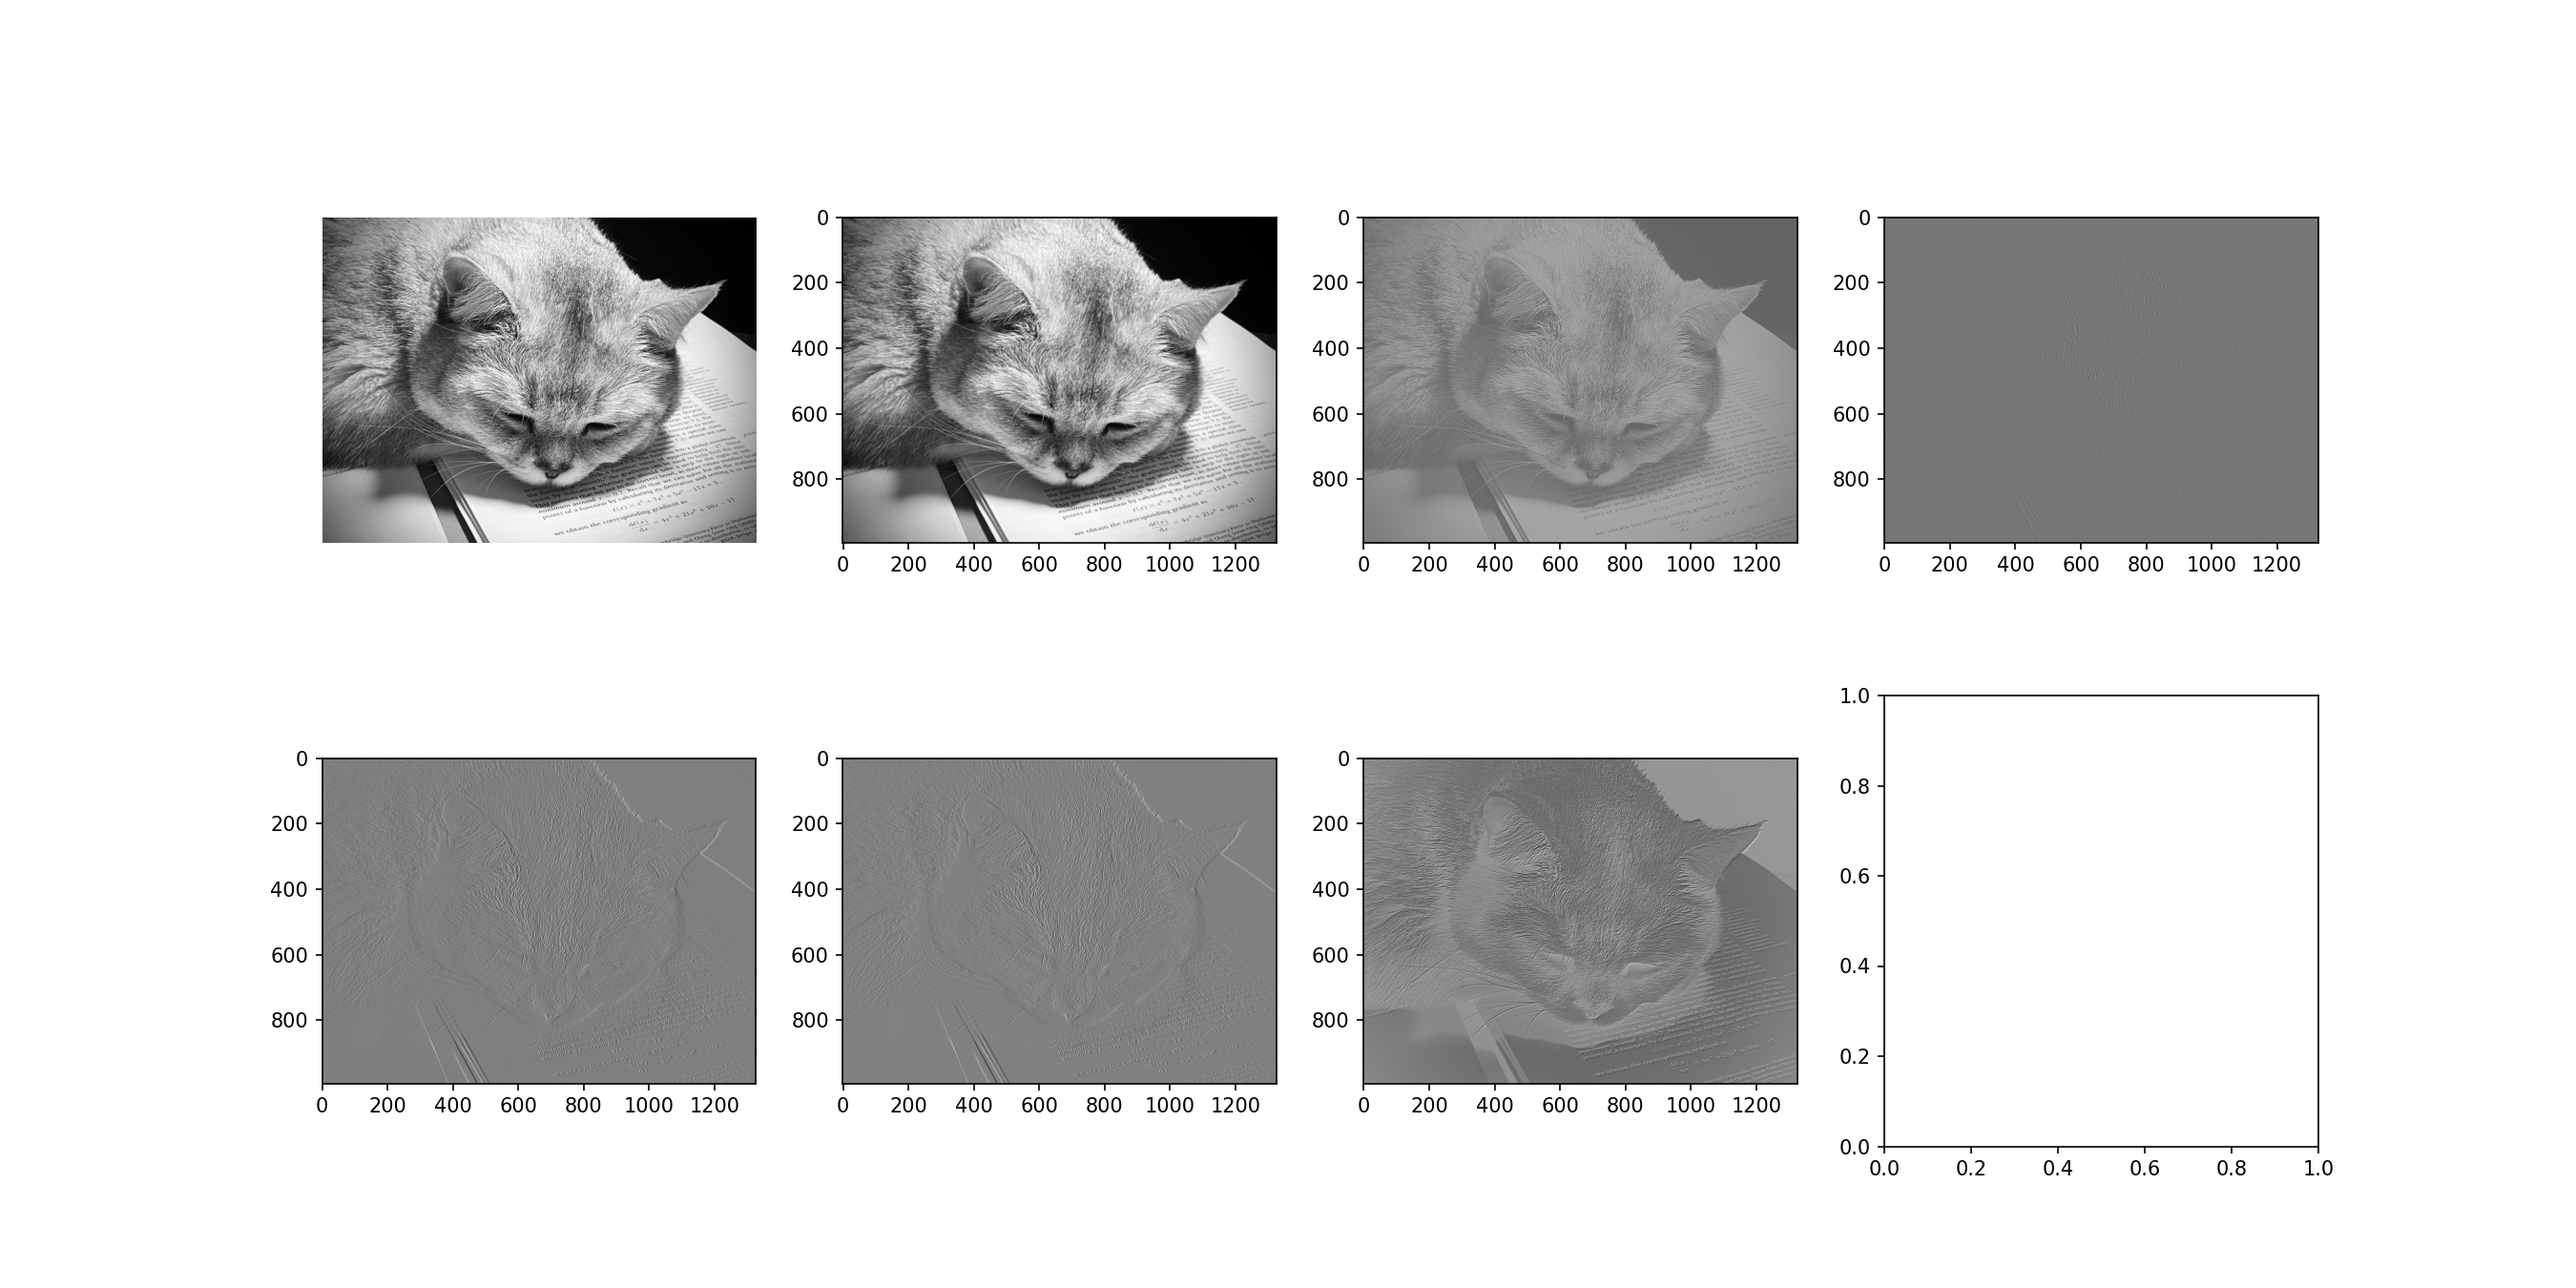
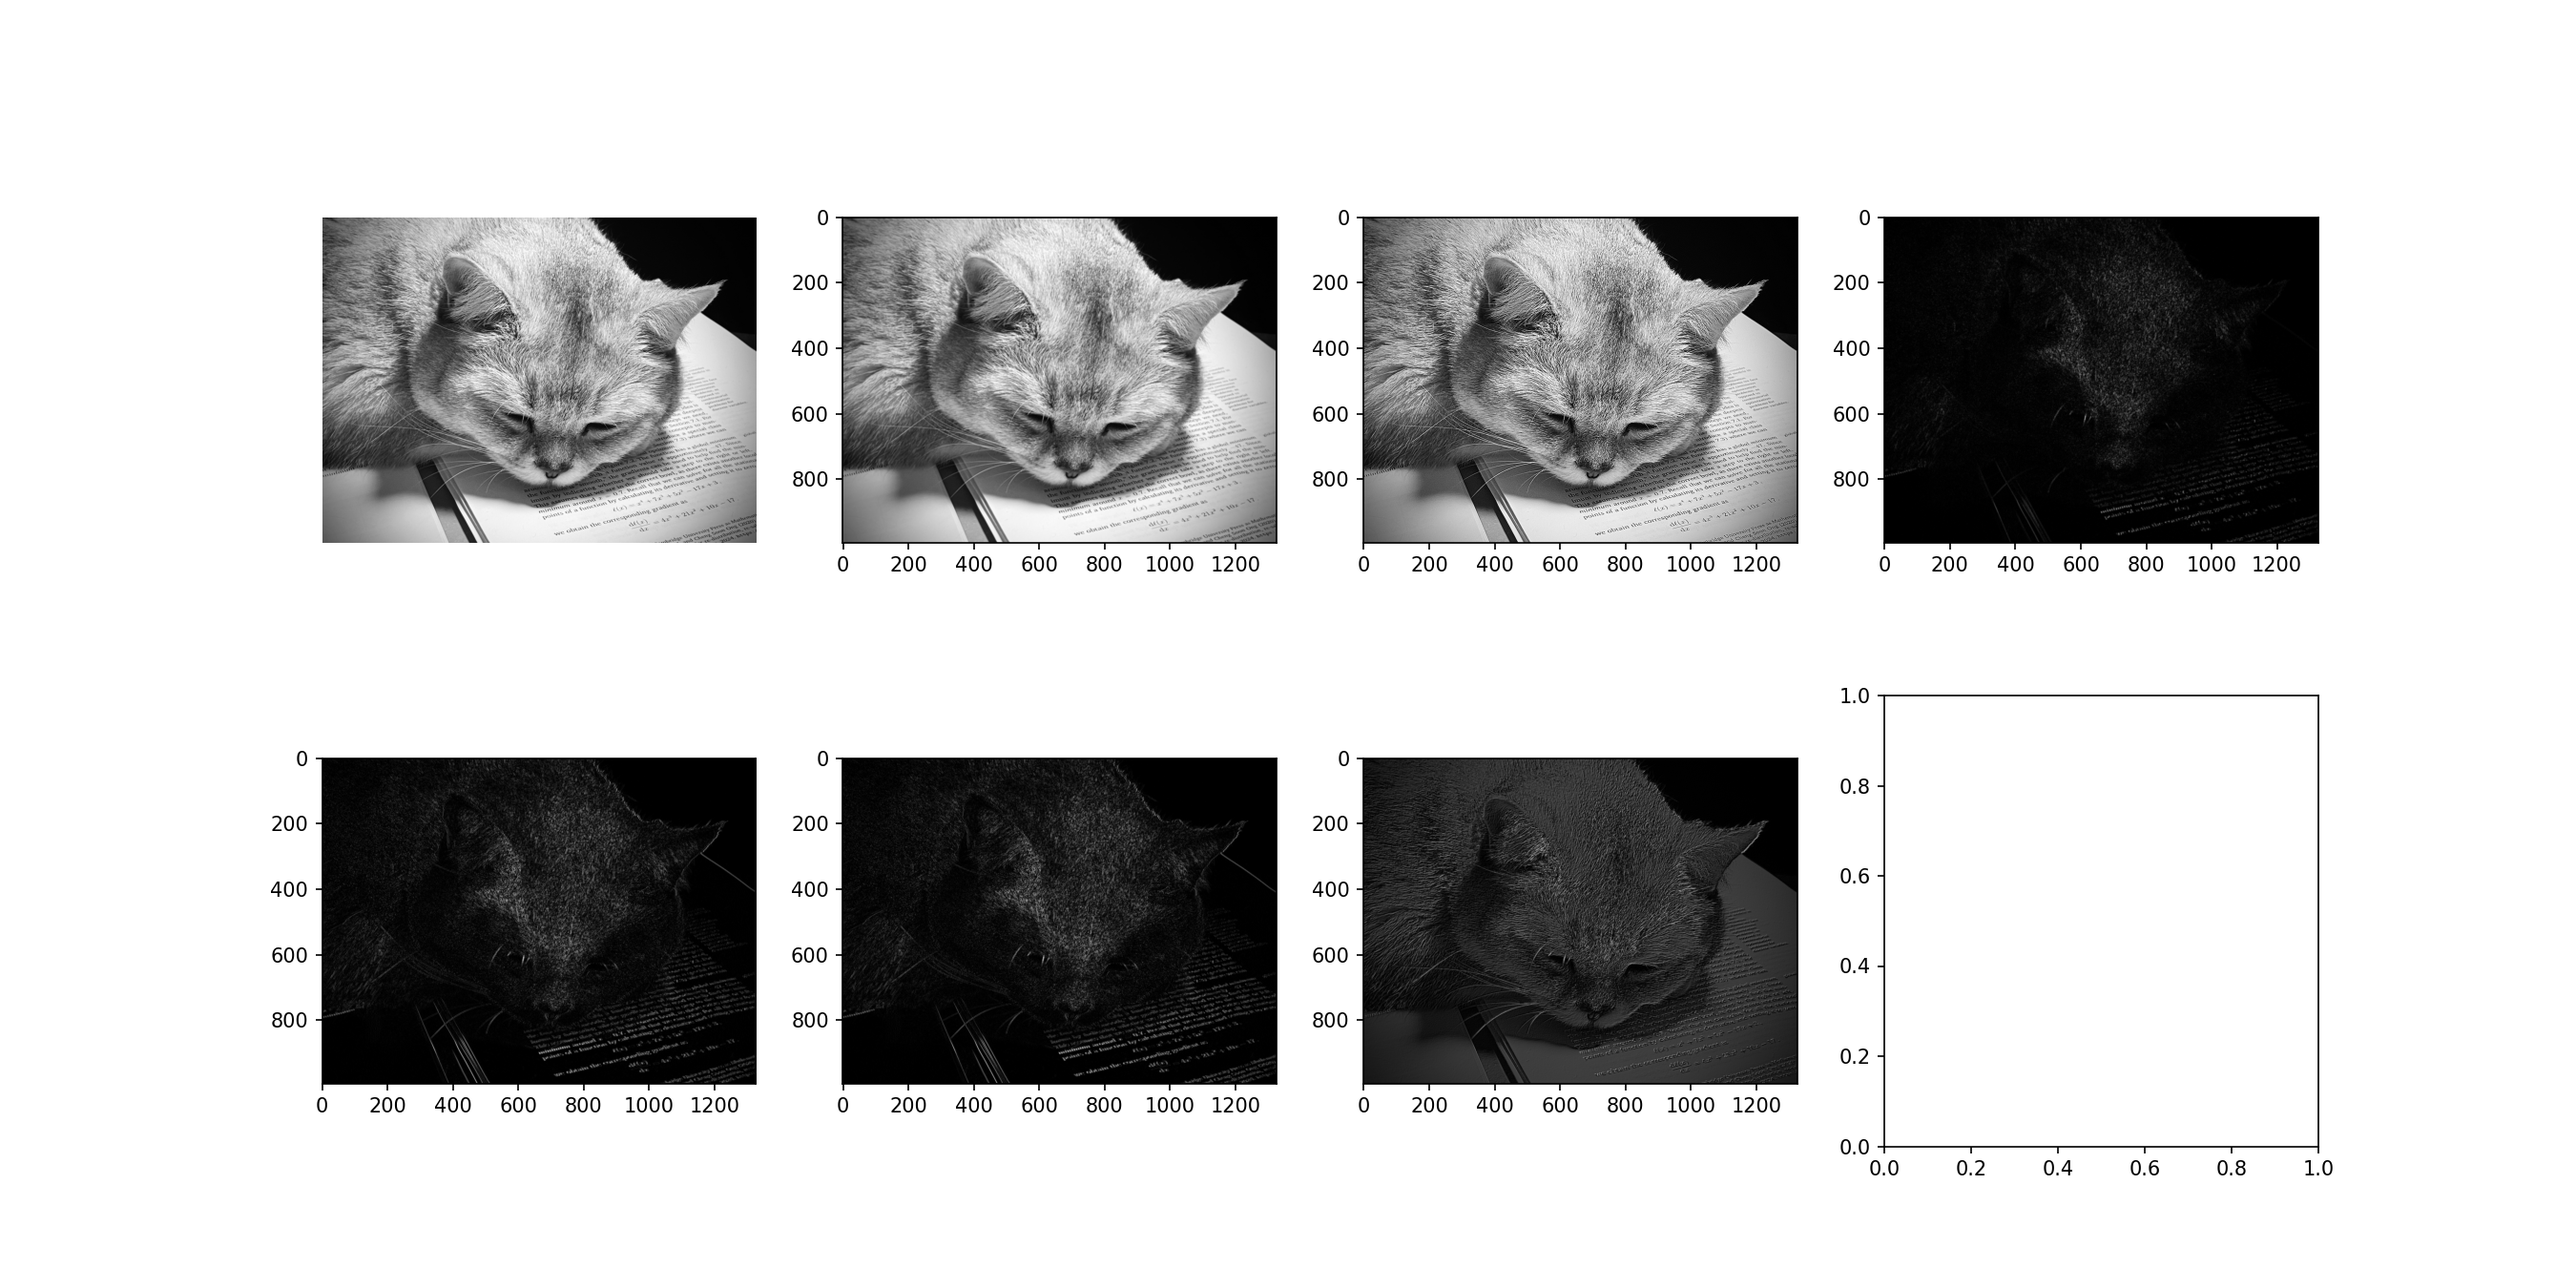
pt 2.3 done, to be validated by teammates

Changed region(s): [[0.5289, 0.1556, 0.9022, 0.4356], [0.1244, 0.5911, 0.4978, 0.84], [0.5289, 0.5911, 0.7156, 0.84]]

diff --git a/pt23.py b/pt23.py
@@ -16,12 +16,12 @@ img_array = np.array(img)/255
 print("a")
 
 #Filters
-K1 = (1/9) * np.ones((3,3))
-K2 = np.array([[0, -1, 0], [-1, 5, -1], [0, -1, 0]])
-K3 = np.array([[-1, 2, -1], [-1, 2, -1], [-1, 2, -1]])
-K4 = np.array([[-1, 0, 1], [-1, 0, 1], [-1, 0, 1]])
-K5 = np.array([[-1, 0, 1], [-2, 0, 2], [-1, 0, 1]])
-K6 = np.array([[-2, -1, 0], [-1, 1, 1], [0, 1, 2]])
+K1 = (1/9) * np.ones((3,3))                                 #should be blur but also almost identical to the og
+K2 = np.array([[0, -1, 0], [-1, 5, -1], [0, -1, 0]])        #Should be a little bit neater
+K3 = np.array([[-1, 2, -1], [-1, 2, -1], [-1, 2, -1]])      #Really dark because K3 looks at the horizontal variations
+K4 = np.array([[-1, 0, 1], [-1, 0, 1], [-1, 0, 1]])         #idk
+K5 = np.array([[-1, 0, 1], [-2, 0, 2], [-1, 0, 1]])         #idk
+K6 = np.array([[-2, -1, 0], [-1, 1, 1], [0, 1, 2]])         #idk
 
 print("b")
 
@@ -38,7 +38,15 @@ print("c")
 #To apply filters
 for ax, (name, K) in zip(axes.flat[1:], filters.items()):
     filtered = convolve(img_array, K)
+    if name == "K1" or name == "K2":
+        filtered = np.clip(filtered, 0, 1)
+    
+    else:
+        filtered = np.abs(filtered)
+        filtered = filtered/filtered.max()
+
     ax.imshow(filtered, cmap = "gray")
+
 print("d")
 
 
